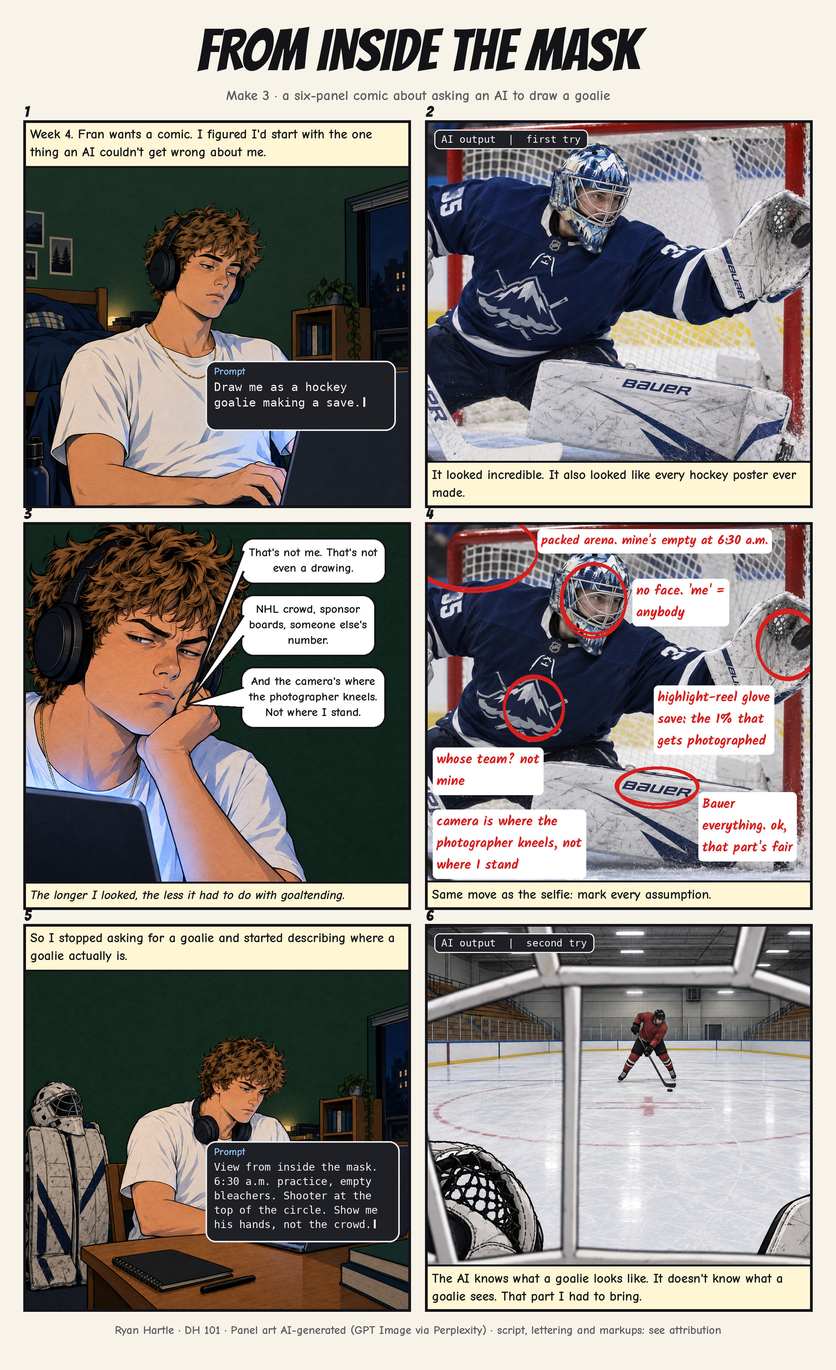
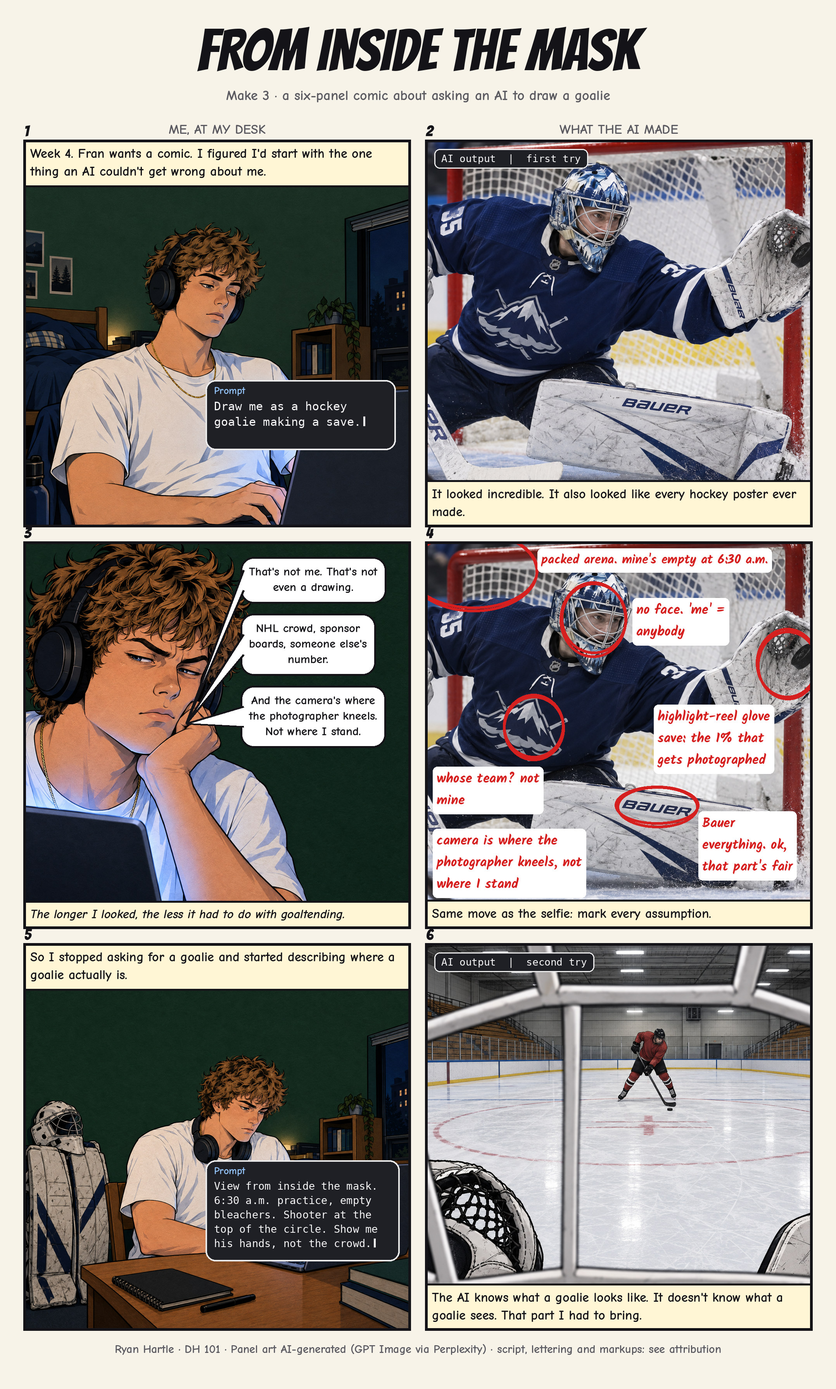
Make 3: column labels, layout notes, rubric-aligned commentary and attribution

diff --git a/makes/comic.md b/makes/comic.md
@@ -4,7 +4,7 @@
 
 **From Inside the Mask** – a six-panel comic about asking an AI to draw me as a goalie.
 
-![Six-panel comic. Panel 1: me at my desk typing "Draw me as a hockey goalie making a save." Panel 2: the AI's first output, a photorealistic pro goalie in a packed NHL arena making a glove save. Panel 3: close-up of me, unimpressed, saying it is not me and not even a drawing. Panel 4: the same AI image marked up in red pen, circling the crowd, the faceless mask, the made-up team logo, the highlight-reel glove save and the Bauer gear. Panel 5: me typing a second prompt: "View from inside the mask. 6:30 a.m. practice, empty bleachers. Shooter at the top of the circle. Show me his hands, not the crowd." Panel 6: the AI's second output, the rink seen through a goalie cage with empty stands and one shooter, captioned "The AI knows what a goalie looks like. It doesn't know what a goalie sees. That part I had to bring."](../assets/images/comic.jpg)
+![Six-panel comic in two columns. Left column, "Me, at my desk": panel 1, me typing "Draw me as a hockey goalie making a save."; panel 3, a close-up of me, unimpressed, saying it is not me and not even a drawing; panel 5, me typing a second prompt: "View from inside the mask. 6:30 a.m. practice, empty bleachers. Shooter at the top of the circle. Show me his hands, not the crowd." Right column, "What the AI made": panel 2, the AI's first output, a photorealistic pro goalie in a packed NHL arena making a glove save; panel 4, the same image marked up in red pen, circling the crowd, the faceless mask, the made-up team logo, the highlight-reel glove save and the Bauer gear; panel 6, the AI's second output, the rink seen through a goalie cage with empty stands and one shooter, captioned "The AI knows what a goalie looks like. It doesn't know what a goalie sees. That part I had to bring."](../assets/images/comic.jpg)
 
 The two raw AI images used in the comic, before cropping and lettering:
 
@@ -14,19 +14,27 @@ The two raw AI images used in the comic, before cropping and lettering:
 
 ## Process Notes
 
-I built this with Perplexity Computer. Panel 2 came from the exact prompt shown in panel 1, with nothing added, so the AI's defaults would show. Panels 1, 3 and 5 were generated in a comic style from a description of me (curly hair, over-ear headphones, chain, the green wall in my room), and panel 6 came from the second prompt. None of the images had text in them. The captions, speech bubbles, prompt boxes and red markups were added on top afterward, and the comic is laid out as a 2 x 3 grid so it reads top to bottom on a phone and on GitHub.
+**How it was made.** I built this with Perplexity Computer. Panel 2 came from the exact prompt shown in panel 1, with nothing added, so the AI's defaults would show. Panels 1, 3 and 5 were generated in a comic style from a description of me (curly hair, over-ear headphones, chain, the green wall in my room), and panel 6 came from the second prompt. None of the images had text in them. The captions, speech bubbles, prompt boxes and red markups were added on top afterward.
+
+**Why it is laid out this way.** The grid is two columns by three rows. The left column is always me at my desk (prompt, doubt, new prompt) and the right column is always the machine's output (first try, marked up, second try). Each row is one exchange with the AI, and the right column read on its own is the story of one image being questioned and replaced. Panel 4 works like a red-pen edit over the AI's picture, the same method I used in the selfie make. In panel 5 my real pads and mask are in the frame for the first time, because the second prompt came from the gear, not from the internet. Panel 6 carries the thesis in its caption. The comic form matters here: the argument is made by putting the AI's view and mine side by side, which a paragraph of text could only describe.
 
 ## Commentary
 
-I asked an AI to draw me as a hockey goalie making a save because I figured that was the one thing about me it couldn't get wrong. It got it wrong in a way I didn't expect. It didn't draw anything. It handed me what looks like a stock photo of a pro: an NHL crowd, a made-up team, number 35, and a highlight-reel glove save shot from where a photographer kneels. That is goaltending the way everyone else sees it, not what I do at 6:30 in the morning in an empty rink.
+This comic is about what happens between a first prompt and a second one. I asked an AI to draw me as a hockey goalie making a save, figuring that was the one thing about me it couldn't get wrong. It didn't draw anything. It handed me a stock photo of a pro: NHL crowd, made-up team, number 35, a highlight-reel glove save shot from where a photographer kneels. That is goaltending the way everyone else sees it, not what I do at 6:30 a.m. in an empty rink.
 
-Panel 4 is the same move as my selfie make: mark every assumption. The second prompt was the real work. Instead of asking for a goalie, I described where a goalie is, inside the mask, watching the shooter's hands. That version is closer and still not right: the cage bars are too thick, the shooter is way too far out, and my glove is lying on the ice, which no goalie does. It is the AI's picture of my view, not my view.
+The layout does part of the arguing. The left column is me at my desk; the right column is what the machine made. Read across and a prompt sits next to the picture it produced; read down the right side and that picture gets questioned, marked up and replaced. Panel 4 is the same move as my selfie make: mark every assumption. Instead of asking for a goalie, I described where a goalie is: inside the mask, watching the shooter's hands. That version is closer and still wrong. The cage bars are too thick, the shooter is way too far out, and my glove is lying on the ice, which no goalie does. It is the AI's picture of my view, not my view.
 
-Sousanis says depth comes from two eyes that don't see the same thing. That is what this comic turned into: the AI's outside view next to the one I brought from experience. He also says we draw to generate ideas, not to copy them down. Prompting skips that step. The thinking here happened in the panels I wrote and marked up, not in the pictures the model made.
+The roles ended up clear. The AI is a fast illustrator who has never been on the ice; I am the one who knows the position, notices what is off and decides what to ask for next. Sousanis says depth comes from two eyes that don't see the same thing, and the two columns are exactly that. He also says we draw to generate ideas, not to copy them down. Prompting skips that step. The thinking here happened in the panels I wrote and marked up, not in the pictures the model made. Next time I will start where this one ended: with where I am and what I am looking at.
 
 ## Attribution & AI Use
 
-- **Tools used:** Perplexity Computer, using GPT Image 2.5 for all six panel images. Perplexity also assembled the page layout and lettering with a Python script and drafted the captions, markup labels and this commentary from my selfie make, my notes and the Sousanis reading. Fonts: Comic Neue, Bangers and Kalam.
+- **AI Tool:** Perplexity Computer – GPT Image 2.5 (all six panel images); Perplexity (page layout and lettering via a Python script; first drafts of the captions, speech bubbles, markup labels, process notes and commentary).
+- **Human Contribution:** The comic is built on my own experience as a goalie and continues the method from my selfie make. I asked for the AI's first result to be shown untouched instead of fixed, reviewed the panel 4 markups against what I know about the position, set the point of view for the second prompt, and read and approved every caption and paragraph before posting.
+- **AI Role:** Generation and drafting, not final authorship.
+
+Details:
+
+- **Tools used:** Perplexity Computer (GPT Image 2.5 for images, Python/Pillow for layout). Fonts: Comic Neue, Bangers and Kalam.
 - **AI prompts (summary):** Panel 2: "Draw me as a hockey goalie making a save." with no other instructions. Panel 6: the view from inside a goalie mask at 6:30 a.m. practice, empty bleachers, one shooter at the top of the circle, glove and blocker at the bottom of the frame. Panels 1, 3 and 5: a comic-style drawing of me at my desk in my room (curly light-brown hair, over-ear headphones, white t-shirt, gold chain, dark green wall), with my pads and mask next to the desk in panel 5.
-- **What AI generated:** All six panel images, the layout and lettering, and the first draft of every caption, speech bubble, markup label and the commentary above.
-- **What I changed or decided:** The story comes from my own experience as a goalie and continues the method from my selfie make. I decided to show the AI's first result untouched instead of fixing it, which assumptions to circle in panel 4, and what the second prompt should ask for. I reviewed and edited all the text before posting it. AI role: generation and drafting, not final authorship.
+- **What AI generated:** All six panel images, the layout and lettering, and the first draft of every caption, speech bubble, markup label and the text on this page.
+- **What I changed or decided:** The story concept and point of view, showing the first AI image as-is, which assumptions get circled in panel 4, what the second prompt asks for, and final approval of all text. The full log is in [pages/ai-log/2026-09-23-make3-comic.md](../pages/ai-log/2026-09-23-make3-comic.md).

diff --git a/pages/ai-log/2026-09-23-make3-comic.md b/pages/ai-log/2026-09-23-make3-comic.md
@@ -8,6 +8,6 @@
 
 **What the AI Suggested:** A photorealistic pro goalie in a packed NHL arena for the first prompt; a through-the-cage view of an empty rink for the second; comic-style drawings of me for panels 1, 3 and 5. Perplexity also drafted the captions, speech bubbles, red markup labels and the commentary, and assembled the layout.
 
-**What I Accepted, Changed, or Rejected:** I kept the first AI image exactly as it came out, because the point of panel 2 is what the AI does by default. I chose which assumptions to circle in panel 4 based on what I actually know about the position, and what the second prompt should ask for. I edited the drafted text before posting.
+**What I Accepted, Changed, or Rejected:** I kept the first AI image exactly as it came out, because the point of panel 2 is what the AI does by default. I chose which assumptions to circle in panel 4 based on what I actually know about the position, and what the second prompt should ask for. I read and approved the drafted text before posting.
 
 **Why:** The assignment asks for visible human intervention and honest disclosure. The AI made the pictures and a first draft of the words; the story, the corrections and the final say were mine.
